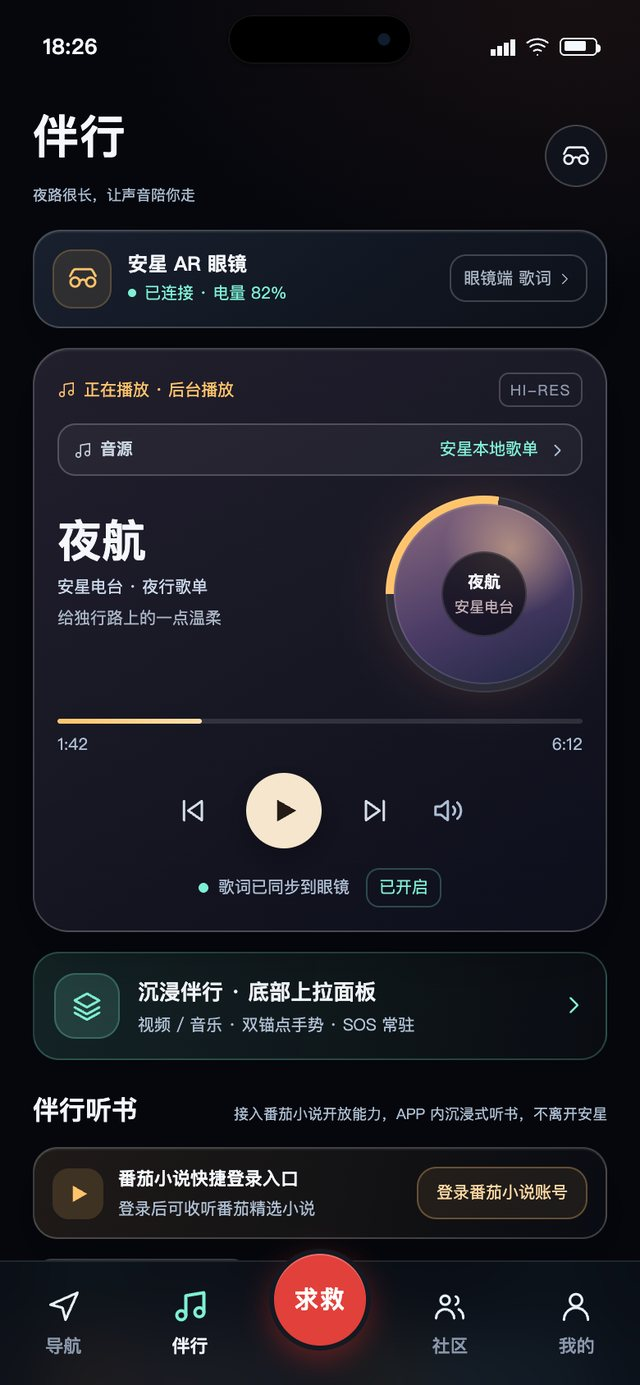
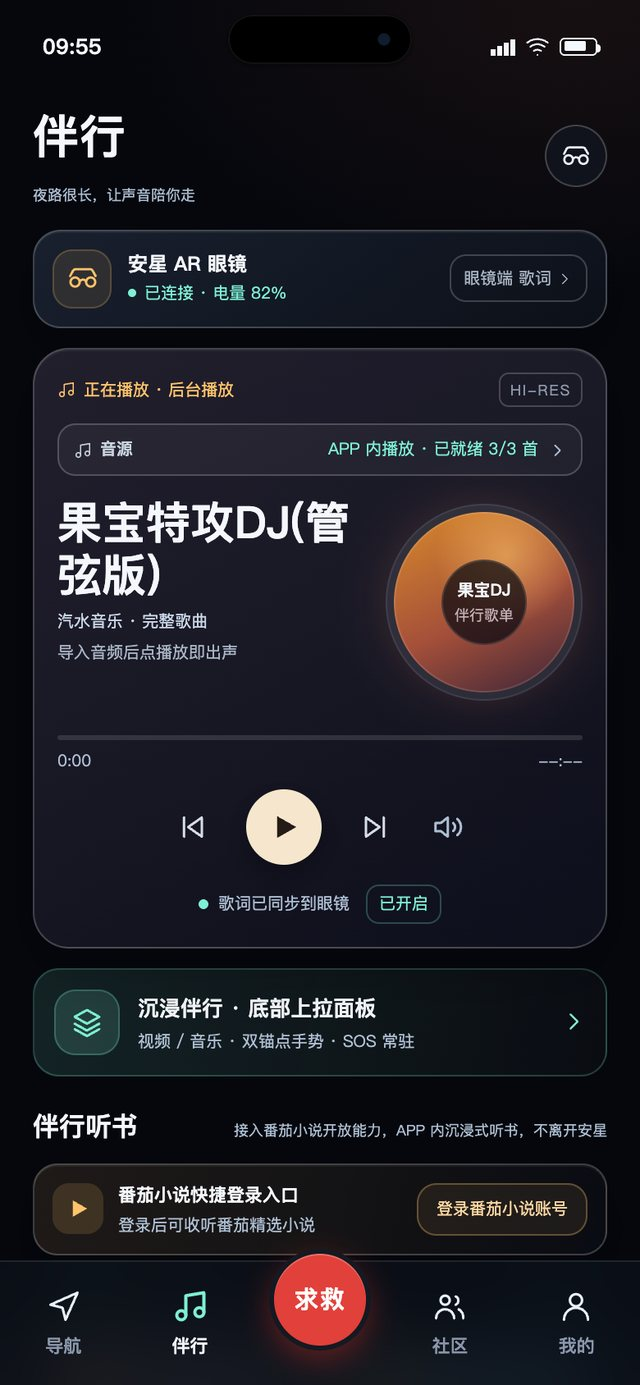
全部换成最新截图，去掉「翻看上一版」和旧版本内容

diff --git a/index.html b/index.html
@@ -63,9 +63,9 @@ html:not(.gl) .room{background:var(--bg)}
 .case .win{display:flex;gap:5px;padding:7px 10px;background:var(--k);border-radius:10px 10px 0 0;margin-bottom:-10px}.case .win i{width:7px;height:7px;border-radius:50%;background:var(--bg);opacity:.6}
 .case img{display:block;width:100%;height:auto;aspect-ratio:16/10;object-fit:cover;object-position:top;border-radius:0 0 10px 10px;box-shadow:0 22px 40px -24px rgba(5,8,25,.55);transition:transform .5s cubic-bezier(.2,.8,.2,1)}
 .case:hover img{transform:translateY(-4px) rotate(-.6deg)}
-.case b{font-weight:500;font-size:15px;text-decoration:underline;text-underline-offset:5px;text-decoration-thickness:1px}.meta b{font-family:var(--f-label);font-weight:700;margin-right:.5em}.meta s{opacity:.65}
+.case b{font-weight:500;font-size:15px;text-decoration:underline;text-underline-offset:5px;text-decoration-thickness:1px}.meta b{font-family:var(--f-label);font-weight:700;margin-right:.5em}
 .acts{display:flex;flex-wrap:wrap;gap:12px 20px;align-items:center;font-size:15px}
-.acts a,.turn{background:none;border:0;padding:0;cursor:pointer;text-decoration:underline;text-underline-offset:5px;text-decoration-thickness:1px}
+.acts a{background:none;border:0;padding:0;cursor:pointer;text-decoration:underline;text-underline-offset:5px;text-decoration-thickness:1px}
 .acts .open{background:var(--k);color:var(--bg);text-decoration:none;padding:11px 22px;border-radius:999px;font-weight:500;transition:transform .3s}
 .acts .open:hover{transform:translateY(-3px)}
 
@@ -82,10 +82,6 @@ figcaption{font-size:13px;margin-top:10px;padding-left:14px;letter-spacing:.08em
 .tilt{transform-style:preserve-3d;will-change:transform}
 .phone{background:#0B0C12;padding:7px;border-radius:40px;box-shadow:0 40px 70px -28px rgba(5,8,25,.55),0 4px 14px rgba(5,8,25,.14)}
 .phone img{display:block;width:100%;height:auto;aspect-ratio:390/844;object-fit:cover;object-position:top;border-radius:33px;background:#ddd}
-.flip{position:relative;transform-style:preserve-3d;transition:transform 1.1s cubic-bezier(.3,.9,.25,1)}
-.flip.on{transform:rotateY(180deg)}
-.flip .phone{backface-visibility:hidden;-webkit-backface-visibility:hidden}
-.flip .back{position:absolute;inset:0;transform:rotateY(180deg)}
 
 /* side index */
 .side{position:fixed;z-index:5;right:0;top:50%;transform:translateY(-50%);padding-right:max(18px,env(safe-area-inset-right,0px));display:flex;flex-direction:column;gap:6px;color:#fff;mix-blend-mode:difference}
@@ -125,78 +121,78 @@ figcaption{font-size:13px;margin-top:10px;padding-left:14px;letter-spacing:.08em
 
 <section class="room v0 xiaobu" id="xiaobu" data-scene="1">
   <h2 class="name" aria-label="小步"><span data-c="0">小</span><span data-c="1">步</span></h2>
-  <div class="cascade"><figure class="ph p1" data-d="0.1"><div class="tilt"><div class="flip"><div class="phone front"><img src="now/xiaobu-1.jpg" width="640" height="1385" alt="小步 · 今日待办" loading="eager"></div><div class="phone back" aria-hidden="true"><img src="shots/xiaobu.jpg" alt="" loading="lazy"></div></div></div><figcaption>今日待办</figcaption></figure><figure class="ph p2" data-d="-0.12"><div class="tilt"><div class="phone"><img src="now/xiaobu-2.jpg" width="640" height="1385" alt="小步 · 日历" loading="eager"></div></div><figcaption>日历</figcaption></figure><figure class="ph p3" data-d="0.2"><div class="tilt"><div class="phone"><img src="now/xiaobu-3.jpg" width="640" height="1385" alt="小步 · 小步习惯" loading="eager"></div></div><figcaption>小步习惯</figcaption></figure></div>
+  <div class="cascade"><figure class="ph p1" data-d="0.1"><div class="tilt"><div class="phone"><img src="now/xiaobu-1.jpg" width="640" height="1385" alt="小步 · 今日待办" loading="eager"></div></div><figcaption>今日待办</figcaption></figure><figure class="ph p2" data-d="-0.12"><div class="tilt"><div class="phone"><img src="now/xiaobu-2.jpg" width="640" height="1385" alt="小步 · 日历" loading="eager"></div></div><figcaption>日历</figcaption></figure><figure class="ph p3" data-d="0.2"><div class="tilt"><div class="phone"><img src="now/xiaobu-3.jpg" width="640" height="1385" alt="小步 · 小步习惯" loading="eager"></div></div><figcaption>小步习惯</figcaption></figure></div>
   <div class="copy">
     <p class="slogan">说出来，<wbr>就有人<wbr>替你记住</p>
     <p class="text">一个用说话来记事的提醒 App。说一句“明天九点交作业”，时间会自己被认出来。过期的事可以推迟、批量处理；日历把一个月摊开来看，小步习惯从喝水、走两千步这样的小事开始。</p>
     <p class="meta"><b>Xiaobu</b> 终焉时刻版<span class="who">向新尧 · 黄子林</span></p>
-    <p class="acts"><a class="open" href="https://x1038604972-web.github.io/xiaobu-reminder/" target="_blank" rel="noopener">打开小步 ↗</a><button type="button" class="turn" id="turn-xiaobu" aria-pressed="false">翻看上一版</button></p>
+    <p class="acts"><a class="open" href="https://x1038604972-web.github.io/xiaobu-reminder/" target="_blank" rel="noopener">打开小步 ↗</a></p>
     <a class="case" href="https://sleepzzz-h.github.io/xiaobu-pitch/" target="_blank" rel="noopener"><span class="win"><i></i><i></i><i></i></span><img src="case/xiaobu.jpg" width="720" height="450" alt="小步产品展示页首屏" loading="lazy"><b>看产品展示页 ↗</b></a>
   </div>
 </section>
 <section class="room v1 anxing" id="anxing" data-scene="2">
   <h2 class="name" aria-label="安星"><span data-c="0">安</span><span data-c="1">星</span></h2>
-  <div class="cascade"><figure class="ph p1" data-d="0.1"><div class="tilt"><div class="flip"><div class="phone front"><img src="now/anxing-1.jpg" width="640" height="1385" alt="安星 · 夜行导航" loading="lazy"></div><div class="phone back" aria-hidden="true"><img src="shots/nightguard.jpg" alt="" loading="lazy"></div></div></div><figcaption>夜行导航</figcaption></figure><figure class="ph p2" data-d="-0.12"><div class="tilt"><div class="phone"><img src="now/anxing-2.jpg" width="640" height="1385" alt="安星 · 伴行电台" loading="lazy"></div></div><figcaption>伴行电台</figcaption></figure><figure class="ph p3" data-d="0.2"><div class="tilt"><div class="phone"><img src="now/anxing-3.jpg" width="640" height="1385" alt="安星 · 分级求救" loading="lazy"></div></div><figcaption>分级求救</figcaption></figure></div>
+  <div class="cascade"><figure class="ph p1" data-d="0.1"><div class="tilt"><div class="phone"><img src="now/anxing-1.jpg" width="640" height="1385" alt="安星 · 夜行导航" loading="lazy"></div></div><figcaption>夜行导航</figcaption></figure><figure class="ph p2" data-d="-0.12"><div class="tilt"><div class="phone"><img src="now/anxing-2.jpg" width="640" height="1385" alt="安星 · 伴行电台" loading="lazy"></div></div><figcaption>伴行电台</figcaption></figure><figure class="ph p3" data-d="0.2"><div class="tilt"><div class="phone"><img src="now/anxing-3.jpg" width="640" height="1385" alt="安星 · 分级求救" loading="lazy"></div></div><figcaption>分级求救</figcaption></figure></div>
   <div class="copy">
     <p class="slogan">夜路很长，<wbr>让声音<wbr>陪你走</p>
     <p class="text">给夜里独自走路的人。地图换成了真实定位和真实道路。求救分成两级：有点不安，先把位置共享给联系人；确认危险，再启动 SOS。伴行页放夜行歌单和听书，社区里可以约人同路。</p>
-    <p class="meta"><b>Anxing</b> <s>夜安</s> 3.0<span class="who">袁上恒</span></p>
-    <p class="acts"><a class="open" href="https://tuotuo-yyds.github.io/anxing-app/" target="_blank" rel="noopener">打开安星 ↗</a><button type="button" class="turn" id="turn-anxing" aria-pressed="false">翻看上一版</button></p>
+    <p class="meta"><b>Anxing</b> 3.0<span class="who">袁上恒</span></p>
+    <p class="acts"><a class="open" href="https://tuotuo-yyds.github.io/anxing-app/" target="_blank" rel="noopener">打开安星 ↗</a></p>
     <a class="case" href="https://wanan0112.github.io/anxing-pitch/" target="_blank" rel="noopener"><span class="win"><i></i><i></i><i></i></span><img src="case/anxing.jpg" width="720" height="450" alt="安星产品展示页首屏" loading="lazy"><b>看产品展示页 ↗</b></a>
   </div>
 </section>
 <section class="room v2 campus" id="campus" data-scene="3">
   <h2 class="name" aria-label="闲鹅"><span data-c="0">闲</span><span data-c="1">鹅</span></h2>
-  <div class="cascade"><figure class="ph p1" data-d="0.1"><div class="tilt"><div class="flip"><div class="phone front"><img src="now/campus-1.jpg" width="640" height="1385" alt="闲鹅 · 逛市集" loading="lazy"></div><div class="phone back" aria-hidden="true"><img src="shots/campus.jpg" alt="" loading="lazy"></div></div></div><figcaption>逛市集</figcaption></figure><figure class="ph p2" data-d="-0.12"><div class="tilt"><div class="phone"><img src="now/campus-2.jpg" width="640" height="1385" alt="闲鹅 · 商品详情" loading="lazy"></div></div><figcaption>商品详情</figcaption></figure><figure class="ph p3" data-d="0.2"><div class="tilt"><div class="phone"><img src="now/campus-3.jpg" width="640" height="1385" alt="闲鹅 · 我的" loading="lazy"></div></div><figcaption>我的</figcaption></figure></div>
+  <div class="cascade"><figure class="ph p1" data-d="0.1"><div class="tilt"><div class="phone"><img src="now/campus-1.jpg" width="640" height="1385" alt="闲鹅 · 逛市集" loading="lazy"></div></div><figcaption>逛市集</figcaption></figure><figure class="ph p2" data-d="-0.12"><div class="tilt"><div class="phone"><img src="now/campus-2.jpg" width="640" height="1385" alt="闲鹅 · 商品详情" loading="lazy"></div></div><figcaption>商品详情</figcaption></figure><figure class="ph p3" data-d="0.2"><div class="tilt"><div class="phone"><img src="now/campus-3.jpg" width="640" height="1385" alt="闲鹅 · 登录" loading="lazy"></div></div><figcaption>登录</figcaption></figure></div>
   <div class="copy">
     <p class="slogan">让闲置<wbr>在校园里<wbr>流动起来</p>
     <p class="text">只在校园里流通的二手市集，有一只闲鹅全程陪着。用 AI 拍照识别，30 秒就能挂出一件闲置。教材、数码、周边分好类，商品页直接写明成色、能不能小刀、怎么面交，看中了就联系卖家或者下单。</p>
-    <p class="meta"><b>Campus Trade</b> <s>校园闲置</s> v5.47<span class="who">丁雯静</span></p>
-    <p class="acts"><a class="open" href="https://quanbo1.github.io/campus-trade-ui-app/?v=2" target="_blank" rel="noopener">打开闲鹅 ↗</a><button type="button" class="turn" id="turn-campus" aria-pressed="false">翻看上一版</button></p>
+    <p class="meta"><b>Campus Trade</b> v5.47<span class="who">丁雯静</span></p>
+    <p class="acts"><a class="open" href="https://quanbo1.github.io/campus-trade-ui-app/?v=2" target="_blank" rel="noopener">打开闲鹅 ↗</a></p>
     <a class="case" href="https://d2581565372-tech.github.io/campus-secondhand-research/" target="_blank" rel="noopener"><span class="win"><i></i><i></i><i></i></span><img src="case/campus.jpg" width="720" height="450" alt="闲鹅产品展示页首屏" loading="lazy"><b>看产品展示页 ↗</b></a>
   </div>
 </section>
 <section class="room v0 emotion" id="emotion" data-scene="4">
   <h2 class="name long" aria-label="情绪靠岸"><span data-c="0">情</span><span data-c="1">绪</span><span data-c="2">靠</span><span data-c="3">岸</span></h2>
-  <div class="cascade"><figure class="ph p1" data-d="0.1"><div class="tilt"><div class="flip"><div class="phone front"><img src="now/emotion-1.jpg" width="640" height="1385" alt="情绪靠岸 · 情绪地形" loading="lazy"></div><div class="phone back" aria-hidden="true"><img src="shots/emotion.jpg" alt="" loading="lazy"></div></div></div><figcaption>情绪地形</figcaption></figure><figure class="ph p2" data-d="-0.12"><div class="tilt"><div class="phone"><img src="now/emotion-2.jpg" width="640" height="1385" alt="情绪靠岸 · 时光机" loading="lazy"></div></div><figcaption>时光机</figcaption></figure><figure class="ph p3" data-d="0.2"><div class="tilt"><div class="phone"><img src="now/emotion-3.jpg" width="640" height="1385" alt="情绪靠岸 · 漂流" loading="lazy"></div></div><figcaption>漂流</figcaption></figure></div>
+  <div class="cascade"><figure class="ph p1" data-d="0.1"><div class="tilt"><div class="phone"><img src="now/emotion-1.jpg" width="640" height="1385" alt="情绪靠岸 · 情绪地形" loading="lazy"></div></div><figcaption>情绪地形</figcaption></figure><figure class="ph p2" data-d="-0.12"><div class="tilt"><div class="phone"><img src="now/emotion-2.jpg" width="640" height="1385" alt="情绪靠岸 · 时光机" loading="lazy"></div></div><figcaption>时光机</figcaption></figure><figure class="ph p3" data-d="0.2"><div class="tilt"><div class="phone"><img src="now/emotion-3.jpg" width="640" height="1385" alt="情绪靠岸 · 记录册" loading="lazy"></div></div><figcaption>记录册</figcaption></figure></div>
   <div class="copy">
     <p class="slogan">让写下的话，<wbr>慢慢漂回<wbr>你身边</p>
     <p class="text">一个安静的情绪记录空间。触碰彩色地形，选一种此刻的颜色，再写下一句话。新版把公开的树洞收了起来，只留下自己的记录；时光机可以给过去或未来的自己寄一封信，信只存在这台设备上。</p>
     <p class="meta"><b>Emotion Planet</b> V3.1</p>
-    <p class="acts"><a class="open" href="https://jimodu.github.io/emotion-planet-v3/" target="_blank" rel="noopener">打开情绪靠岸 ↗</a><button type="button" class="turn" id="turn-emotion" aria-pressed="false">翻看上一版</button></p>
+    <p class="acts"><a class="open" href="https://jimodu.github.io/emotion-planet-v3/" target="_blank" rel="noopener">打开情绪靠岸 ↗</a></p>
     
   </div>
 </section>
 <section class="room v1 fridge" id="fridge" data-scene="5">
   <h2 class="name" aria-label="鲜知"><span data-c="0">鲜</span><span data-c="1">知</span></h2>
-  <div class="cascade"><figure class="ph p1" data-d="0.1"><div class="tilt"><div class="flip"><div class="phone front"><img src="now/fridge-1.jpg" width="640" height="1385" alt="鲜知 · 临期提醒" loading="lazy"></div><div class="phone back" aria-hidden="true"><img src="shots/fridge.jpg" alt="" loading="lazy"></div></div></div><figcaption>临期提醒</figcaption></figure><figure class="ph p2" data-d="-0.12"><div class="tilt"><div class="phone"><img src="now/fridge-2.jpg" width="640" height="1385" alt="鲜知 · 今日食谱" loading="lazy"></div></div><figcaption>今日食谱</figcaption></figure><figure class="ph p3" data-d="0.2"><div class="tilt"><div class="phone"><img src="now/fridge-3.jpg" width="640" height="1385" alt="鲜知 · 添加食材" loading="lazy"></div></div><figcaption>添加食材</figcaption></figure></div>
+  <div class="cascade"><figure class="ph p1" data-d="0.1"><div class="tilt"><div class="phone"><img src="now/fridge-1.jpg" width="640" height="1385" alt="鲜知 · 临期提醒" loading="lazy"></div></div><figcaption>临期提醒</figcaption></figure><figure class="ph p2" data-d="-0.12"><div class="tilt"><div class="phone"><img src="now/fridge-2.jpg" width="640" height="1385" alt="鲜知 · 今日食谱" loading="lazy"></div></div><figcaption>今日食谱</figcaption></figure><figure class="ph p3" data-d="0.2"><div class="tilt"><div class="phone"><img src="now/fridge-3.jpg" width="640" height="1385" alt="鲜知 · 购物车" loading="lazy"></div></div><figcaption>购物车</figcaption></figure></div>
   <div class="copy">
     <p class="slogan">早上好，<wbr>今天想吃<wbr>些什么</p>
     <p class="text">把冰箱搬到手机上。打开先看快过期的食材，再看用它们能做什么菜。添加食材可以手动填、拍照，或者说一句话。这一版还多了一块冰箱门上的显示屏。</p>
     <p class="meta"><b>FreshSense</b> 3.0</p>
-    <p class="acts"><a class="open" href="https://tartalr818339.github.io/fridge3.0/" target="_blank" rel="noopener">打开鲜知 ↗</a><button type="button" class="turn" id="turn-fridge" aria-pressed="false">翻看上一版</button><a href="https://tartalr818339.github.io/fridge-screen/" target="_blank" rel="noopener">冰箱屏 ↗</a></p>
+    <p class="acts"><a class="open" href="https://tartalr818339.github.io/fridge3.0/" target="_blank" rel="noopener">打开鲜知 ↗</a><a href="https://tartalr818339.github.io/fridge-screen/" target="_blank" rel="noopener">冰箱屏 ↗</a></p>
     <a class="case" href="https://zxiaoxiew-source.github.io/fridge/" target="_blank" rel="noopener"><span class="win"><i></i><i></i><i></i></span><img src="case/fridge.jpg" width="720" height="450" alt="鲜知产品展示页首屏" loading="lazy"><b>看产品展示页 ↗</b></a>
   </div>
 </section>
 <section class="room v2 chanban" id="chanban" data-scene="6">
   <h2 class="name" aria-label="馋伴"><span data-c="0">馋</span><span data-c="1">伴</span></h2>
-  <div class="cascade"><figure class="ph p1" data-d="0.1"><div class="tilt"><div class="flip"><div class="phone front"><img src="now/chanban-1.jpg" width="640" height="1385" alt="馋伴 · 今天吃什么" loading="lazy"></div><div class="phone back" aria-hidden="true"><img src="shots/chanban.jpg" alt="" loading="lazy"></div></div></div><figcaption>今天吃什么</figcaption></figure><figure class="ph p2" data-d="-0.12"><div class="tilt"><div class="phone"><img src="now/chanban-2.jpg" width="640" height="1385" alt="馋伴 · 趋势" loading="lazy"></div></div><figcaption>趋势</figcaption></figure><figure class="ph p3" data-d="0.2"><div class="tilt"><div class="phone"><img src="now/chanban-3.jpg" width="640" height="1385" alt="馋伴 · 记录中心" loading="lazy"></div></div><figcaption>记录中心</figcaption></figure></div>
+  <div class="cascade"><figure class="ph p1" data-d="0.1"><div class="tilt"><div class="phone"><img src="now/chanban-1.jpg" width="640" height="1385" alt="馋伴 · 今天吃什么" loading="lazy"></div></div><figcaption>今天吃什么</figcaption></figure><figure class="ph p2" data-d="-0.12"><div class="tilt"><div class="phone"><img src="now/chanban-2.jpg" width="640" height="1385" alt="馋伴 · 趋势" loading="lazy"></div></div><figcaption>趋势</figcaption></figure><figure class="ph p3" data-d="0.2"><div class="tilt"><div class="phone"><img src="now/chanban-3.jpg" width="640" height="1385" alt="馋伴 · 先认识一下你" loading="lazy"></div></div><figcaption>先认识一下你</figcaption></figure></div>
   <div class="copy">
     <p class="slogan">和嘴馋<wbr>做朋友</p>
     <p class="text">解决每天最难的问题：吃什么。按口味、预算和时间，让小馋替你挑一餐，或者自己慢慢选。拍一张、记一餐，就能攒一颗星；趋势页替你总结这一周。</p>
     <p class="meta"><b>MOGU</b> <span class="who">廖静怡</span></p>
-    <p class="acts"><a class="open" href="https://chanban-app.pages.dev/#/record" target="_blank" rel="noopener">打开馋伴 ↗</a><button type="button" class="turn" id="turn-chanban" aria-pressed="false">翻看上一版</button></p>
+    <p class="acts"><a class="open" href="https://chanban-app.pages.dev/#/record" target="_blank" rel="noopener">打开馋伴 ↗</a></p>
     <a class="case" href="https://3435025144-del.github.io/mogu-case-study/" target="_blank" rel="noopener"><span class="win"><i></i><i></i><i></i></span><img src="case/chanban.jpg" width="720" height="450" alt="馋伴产品展示页首屏" loading="lazy"><b>看产品展示页 ↗</b></a>
   </div>
 </section>
 <section class="room v0 xunji" id="xunji" data-scene="7">
   <h2 class="name" aria-label="寻迹"><span data-c="0">寻</span><span data-c="1">迹</span></h2>
-  <div class="cascade"><figure class="ph p1" data-d="0.1"><div class="tilt"><div class="flip"><div class="phone front"><img src="now/xunji-1.jpg" width="640" height="1385" alt="寻迹 · 物品清单" loading="lazy"></div><div class="phone back" aria-hidden="true"><img src="shots/organizer.jpg" alt="" loading="lazy"></div></div></div><figcaption>物品清单</figcaption></figure><figure class="ph p2" data-d="-0.12"><div class="tilt"><div class="phone"><img src="now/xunji-2.jpg" width="640" height="1385" alt="寻迹 · 分类" loading="lazy"></div></div><figcaption>分类</figcaption></figure><figure class="ph p3" data-d="0.2"><div class="tilt"><div class="phone"><img src="now/xunji-3.jpg" width="640" height="1385" alt="寻迹 · 设备联动" loading="lazy"></div></div><figcaption>设备联动</figcaption></figure></div>
+  <div class="cascade"><figure class="ph p1" data-d="0.1"><div class="tilt"><div class="phone"><img src="now/xunji-1.jpg" width="640" height="1385" alt="寻迹 · 设备联动" loading="lazy"></div></div><figcaption>设备联动</figcaption></figure><figure class="ph p2" data-d="-0.12"><div class="tilt"><div class="phone"><img src="now/xunji-2.jpg" width="640" height="1385" alt="寻迹 · 呼唤物品" loading="lazy"></div></div><figcaption>呼唤物品</figcaption></figure><figure class="ph p3" data-d="0.2"><div class="tilt"><div class="phone"><img src="now/xunji-3.jpg" width="640" height="1385" alt="寻迹 · 设置" loading="lazy"></div></div><figcaption>设置</figcaption></figure></div>
   <div class="copy">
     <p class="slogan">找不到、<wbr>记不住，<wbr>才是<wbr>真正的问题</p>
-    <p class="text">记下每样东西放在哪里、还剩多少、什么时候过期。快到期的会排到最前面。分类页一眼看清全屋库存，联动页可以绑定定位设备，在地图上找回随身的物品。</p>
-    <p class="meta"><b>Xunji</b> <s>收纳小管家</s> v2.67<span class="who">张婉清</span></p>
-    <p class="acts"><a class="open" href="https://ananpaofu.github.io/new-shouna-app/" target="_blank" rel="noopener">打开寻迹 ↗</a><button type="button" class="turn" id="turn-xunji" aria-pressed="false">翻看上一版</button></p>
+    <p class="text">记下重要和常用的东西放在哪。给物品绑定一个小设备，地图上就能看到它现在的位置；找不到时点一下，或者说一句话，让它响起来。过期和临期的提醒都收在通知中心里。</p>
+    <p class="meta"><b>Xunji</b> v2.85<span class="who">张婉清</span></p>
+    <p class="acts"><a class="open" href="https://ananpaofu.github.io/new-shouna-app/" target="_blank" rel="noopener">打开寻迹 ↗</a></p>
     <a class="case" href="https://ananpaofu.github.io/xunji-case/" target="_blank" rel="noopener"><span class="win"><i></i><i></i><i></i></span><img src="case/xunji.jpg" width="720" height="450" alt="寻迹产品展示页首屏" loading="lazy"><b>看产品展示页 ↗</b></a>
   </div>
 </section>
@@ -205,7 +201,7 @@ figcaption{font-size:13px;margin-top:10px;padding-left:14px;letter-spacing:.08em
   <div class="cascade"><figure class="ph p1" data-d="0.1"><div class="tilt"><div class="phone"><img src="now/tiaodao-1.jpg" width="640" height="1385" alt="跳岛 · 为你推荐" loading="lazy"></div></div><figcaption>为你推荐</figcaption></figure><figure class="ph p2" data-d="-0.12"><div class="tilt"><div class="phone"><img src="now/tiaodao-2.jpg" width="640" height="1385" alt="跳岛 · 附近的岛" loading="lazy"></div></div><figcaption>附近的岛</figcaption></figure><figure class="ph p3" data-d="0.2"><div class="tilt"><div class="phone"><img src="now/tiaodao-3.jpg" width="640" height="1385" alt="跳岛 · 我的岛屿画像" loading="lazy"></div></div><figcaption>我的岛屿画像</figcaption></figure></div>
   <div class="copy">
     <p class="slogan">与其想几个月，<wbr>不如先<wbr>跳一座岛</p>
-    <p class="text">给站在升学和就业岔路口、对方向感到迷茫的年轻人。附近的摄影师、咖啡师、花艺师都是一座“岛”，花半天、几十块钱上岛体验一次真实的工作。跳岛日志只记观察，不下定论；“我的岛屿画像”把试过的方向慢慢拼出来。</p>
+    <p class="text">给站在升学和就业岔路口、对方向感到迷茫的年轻人。先挑 3 个感兴趣的方向，附近的摄影师、咖啡师、花艺师都是一座“岛”，花半天、几十块钱上岛体验一次真实的工作。跳岛日志只记观察，不下定论；“我的岛屿画像”把试过的方向慢慢拼出来。</p>
     <p class="meta"><b>Island Hop</b> App 2.1<span class="who">兰玉晗</span></p>
     <p class="acts"><a class="open" href="https://hexinyi1128.github.io/app2.1/" target="_blank" rel="noopener">打开跳岛 ↗</a></p>
     <a class="case" href="https://lanyuhan1109.github.io/tiaodao/" target="_blank" rel="noopener"><span class="win"><i></i><i></i><i></i></span><img src="case/tiaodao.jpg" width="720" height="450" alt="跳岛产品展示页首屏" loading="lazy"><b>看产品展示页 ↗</b></a>
@@ -280,7 +276,6 @@ var D=document,H=D.documentElement,cv=D.getElementById('sky'),still=matchMedia('
 var secs=[].slice.call(D.querySelectorAll('[data-scene]')),cells=[].slice.call(D.querySelectorAll('.cell')),side=[].slice.call(D.querySelectorAll('.side a')),hero=secs[0];
 var figs=[].slice.call(D.querySelectorAll('.ph')),chars=[].slice.call(D.querySelectorAll('.name span'));
 var gl=null,U={},W=0,Hh=0,k=1,mx=.6,my=.5,sx=.6,sy=.5,t=8,last=0,dirty=true;
-D.querySelectorAll('.turn').forEach(function(b){b.onclick=function(){var f=b.closest('.room').querySelector('.flip'),on=f.classList.toggle('on');b.setAttribute('aria-pressed',on);b.textContent=on?'翻回现在':'翻看上一版';};});
 function init(){
   gl=cv.getContext('webgl',{antialias:false,alpha:false,powerPreference:'low-power'});if(!gl)return;
   function sh(ty,src){var s=gl.createShader(ty);gl.shaderSource(s,src);gl.compileShader(s);if(!gl.getShaderParameter(s,gl.COMPILE_STATUS)){console.error(gl.getShaderInfoLog(s));return null}return s}
